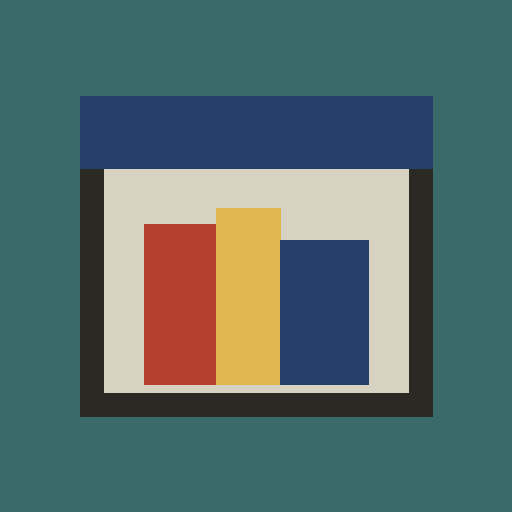
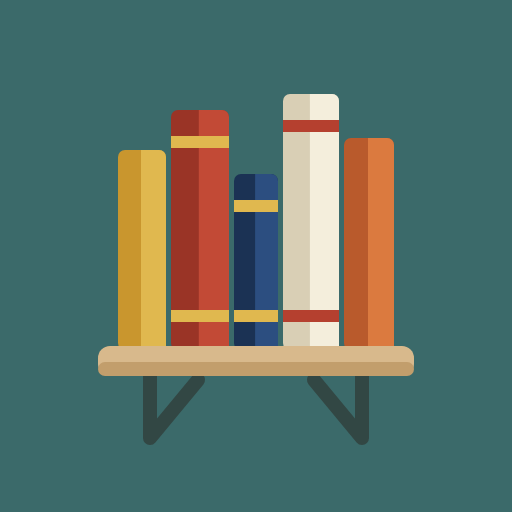
bkbk 새 아이콘, media v2, 같은 날 완독 순서, 시리즈·저자 검색 선택
Claude-Session: https://claude.ai/code/session_017xK88kUsRgSTMmdWXH6KVr

diff --git a/index.html b/index.html
@@ -117,6 +117,9 @@ h2{font:700 20px/1.3 var(--se);margin-top:10px}
 .stp{display:flex;gap:3px}.stp input{text-align:center;min-width:0;flex:1}
 .fl{margin-top:8px;font-size:12px;min-width:0;flex:1}.fl>span{display:block;color:var(--sh)}
 .r2{display:flex;gap:8px}.inl{display:flex;gap:4px}.inl select,.inl input{flex:1;min-width:0}
+.cb{position:relative;flex:1;min-width:0;display:flex}.cb .cbi{flex:1;min-width:0;width:100%}
+.cbl{position:absolute;left:0;right:0;top:100%;z-index:30;max-height:220px;overflow:auto;background:#fffef9;border:2px solid;border-color:var(--dk) #fff #fff var(--dk);box-shadow:3px 3px 0 #0003}
+.cbo{padding:4px 8px;cursor:pointer;white-space:nowrap;overflow:hidden;text-overflow:ellipsis}.cbo.a,.cbo[data-cv]:hover{background:var(--navy);color:#fff}.cbo.none{color:var(--sh);cursor:default}
 .cvup{width:110px;height:156px;margin:0 auto;border:2px dashed var(--sh);display:flex;align-items:center;justify-content:center;text-align:center;cursor:pointer;background:#fff center/cover;color:var(--sh);font-size:12px}
 
 .sr{width:18px;height:18px;vertical-align:middle}.sr .bg{fill:#fff;stroke:var(--dk);stroke-width:1.2}.sr .fg{fill:var(--red)}
@@ -139,7 +142,7 @@ h2{font:700 20px/1.3 var(--se);margin-top:10px}
  </div>
 </div>
 <script src="https://jjojjolonglong-sudo.github.io/mnmn/config.js"></script>
-<script src="https://jjojjolonglong-sudo.github.io/mnmn/media.v1.js"></script>
+<script src="https://jjojjolonglong-sudo.github.io/mnmn/media.v2.js"></script>
 <script>
 /* ---------- 연결 설정: 아래 값은 공개돼도 되는 값입니다 (비밀 키는 절대 넣지 마세요) ---------- */
 const CFG=window.APP_CONFIG||{};   // 공용 설정(config.js). 못 불러와도(오프라인 등) 아래 값으로 동작해요
@@ -153,7 +156,7 @@ const MEDIA=(LS('bkbk_media')||DEFAULT_MEDIA).replace(/\/$/,'');
 if(!window.todayKST)window.todayKST=()=>new Intl.DateTimeFormat('sv-SE',{timeZone:'Asia/Seoul'}).format(new Date());
 /* 공용 이미지 모듈(media.js). 못 불러와도 앱은 열리고, 업로드할 때만 안내가 떠요 */
 if(!window.Media)window.Media={init(){},process:async()=>{throw new Error('media.js could not be loaded')},upload:async()=>{throw new Error('media.js could not be loaded')}};
-Media.init({worker:MEDIA,getToken:()=>token()});
+Media.init({app:'bkbk',worker:MEDIA,getToken:()=>token()});
 
 /* ---------- Supabase 로그인 / 데이터 접근 (필요한 기능만 직접 구현) ---------- */
 const SES=()=>{try{return JSON.parse(localStorage.getItem('bkbk_sb')||'null')}catch(e){return null}};
@@ -223,10 +226,10 @@ let CS=new Map();
 const fresh=l=>has(l.onpct)?PC(l.onpct)<=0.5:has(l.onpage)?P(l.onpage)<=1:eOn(l)<=0.5;
 function sess(arr){
   const L=stab(arr,(a,b)=>cmp(dk(a.date),dk(b.date))||eOn(a)-eOn(b));
-  let start=0,done=false,cd='';const comps=[];
-  L.forEach((l,i)=>{if(done&&fresh(l)){start=i;done=false}if(!done&&eOff(l)>=100){done=true;cd=dk(l.date);comps.push(cd)}});
+  let start=0,done=false,cd='',ci=-1;const comps=[];
+  L.forEach((l,i)=>{if(done&&fresh(l)){start=i;done=false}if(!done&&eOff(l)>=100){done=true;cd=dk(l.date);ci=l._i;comps.push(cd)}});
   const S=L.slice(start);
-  return{p:Math.min(100,Math.max(0,...S.map(eOff))),fin:done,finD:done?cd:'',first:S.length?dk(S[0].date):'',last:S.length?dk(S[S.length-1].date):'',rr:start>0&&!done,comps,fi:S.length?S[0]._i:-1};
+  return{p:Math.min(100,Math.max(0,...S.map(eOff))),fin:done,finD:done?cd:'',first:S.length?dk(S[0].date):'',last:S.length?dk(S[S.length-1].date):'',rr:start>0&&!done,comps,fi:S.length?S[0]._i:-1,ci};   /* ci: 완독한 로그를 입력한 순번(같은 날 완독 순서 정렬용) */
 }
 const cs=id=>CS.get(String(id))||{p:0,fin:false,finD:'',first:'',last:'',rr:false,comps:[],fi:-1};
 const prog=id=>cs(id).p,fin=id=>cs(id).fin,finD=id=>cs(id).finD,lastD=id=>cs(id).last,firstD=id=>cs(id).first,rr=id=>cs(id).rr;
@@ -414,7 +417,7 @@ function Shelf(){
     const pl=`<span class="pl" style="background:${E(c2)};color:${lum(c2)}"><b>${E(t)}</b></span>`;
     if(!v){const d=Math.min(8,Math.max(5,w-12));return`<div ${a}><i class="dm" style="width:${d}px;height:${d}px;background:${E(c3)}"></i><div class="bd sg">${pl}</div></div>`}
     return`<div ${a}><div class="bd">${pl}<em class="vq" style="background:${E(c3)};color:${lum(c3)};font-size:${Math.min(9,Math.max(7,w-13))}px"><span>${E(v)}</span></em></div></div>`};
-  const done=D.Books.filter(b=>fin(b.id)).sort((a,b)=>cmp(finD(a.id),finD(b.id))),todo=D.Books.filter(b=>!fin(b.id)).sort(byD);
+  const done=D.Books.filter(b=>fin(b.id)).sort((a,b)=>cmp(finD(a.id),finD(b.id))||cs(a.id).ci-cs(b.id).ci)   /* 완독일 → 같은 날이면 입력한 순서 */,todo=D.Books.filter(b=>!fin(b.id)).sort(byD);
   const items=[...done.map(sp),...(todo.length?[`<div class="be" title="Unfinished books are on the right"><img src="bookend.png" alt="" height="100" onerror="this.style.visibility='hidden'"></div>`]:[]),...todo.map(sp)];
   return[`<div class="bar"><input id="sq" placeholder="Search title, author, genre…" value="${E(shq)}" style="flex:1" autocomplete="off"></div><div class="sc"><div class="shelf">${items.map(h=>`<div class="slot">${h}</div>`).join('')}</div></div>`,det(sel),'Shelf','Book'];
 }
@@ -430,7 +433,24 @@ const tagsOf=t=>D.Tags.filter(x=>String(x.type).toLowerCase()==t);
 let ed=null,fm=null,up=0;
 const opt=(a,v,f)=>a.map(x=>{const[i,n]=f(x);return`<option value="${E(i)}" ${i==v?'selected':''}>${E(n)}</option>`}).join('');
 const fl=(l,h)=>`<div class="fl"><span>${l}</span>${h}</div>`;
-const inl=(k,v)=>{const it=k=='series'?D.Series.map(s=>[s.id,s.name]):k=='platform'&&!tagsOf('platform').length?PLAT.map(x=>[x,x]):tagsOf(k).map(t=>[t.id,t.name]);return`<select name="${k}"><option value="">-</option>${opt(it,v,x=>x)}</select><button type="button" class="btn" data-ia="${k}">+</button>`};
+/* 시리즈·저자: 글자를 쳐서 목록을 좁힌 뒤 고르기. 목록은 최근에 만든 것부터 */
+const CBK=new Set(['series','author']);
+const cbItems=k=>(k=='series'?D.Series.map(x=>[String(x.id),x.name]):tagsOf(k).map(t=>[String(t.id),t.name])).reverse();
+const cbx=(k,v)=>{const cur=cbItems(k).find(x=>x[0]==String(v));return`<div class="cb" data-cb="${k}"><input class="cbi" value="${E(cur?cur[1]:'')}" placeholder="Type to search…" autocomplete="off"><input type="hidden" name="${k}" value="${E(cur?cur[0]:'')}"><div class="cbl" hidden></div></div><button type="button" class="btn" data-ia="${k}">+</button>`};
+function cbShow(w,all){const k=w.dataset.cb,q=all?'':w.querySelector('.cbi').value.trim().toLowerCase(),L=cbItems(k).filter(x=>!q||x[1].toLowerCase().includes(q)).slice(0,100),l=w.querySelector('.cbl');
+  l.innerHTML=L.map((x,i)=>`<div class="cbo${i==0?' a':''}" data-cv="${E(x[0])}">${E(x[1])}</div>`).join('')||'<div class="cbo none">No match</div>';l.hidden=false;l.scrollTop=0}
+function cbPick(w,id){const k=w.dataset.cb,it=cbItems(k).find(x=>x[0]==String(id));w.querySelector('input[type=hidden]').value=it?it[0]:'';w.querySelector('.cbi').value=it?it[1]:'';w.querySelector('.cbl').hidden=true;if(k=='series')onSeries()}
+function cbBlur(w){const t=w.querySelector('.cbi').value.trim(),h=w.querySelector('input[type=hidden]'),it=cbItems(w.dataset.cb),ex=it.find(x=>x[1]==t);
+  if(!t)cbPick(w,'');else if(ex)cbPick(w,ex[0]);else{const cur=it.find(x=>x[0]==h.value);w.querySelector('.cbi').value=cur?cur[1]:''}w.querySelector('.cbl').hidden=true}
+document.addEventListener('focusin',e=>{const w=e.target.closest&&e.target.closest('.cb');if(w&&e.target.classList.contains('cbi')){e.target.select();cbShow(w,true)}});
+document.addEventListener('focusout',e=>{const w=e.target.closest&&e.target.closest('.cb');if(w&&e.target.classList.contains('cbi'))cbBlur(w)});
+document.addEventListener('input',e=>{if(e.target.classList&&e.target.classList.contains('cbi'))cbShow(e.target.closest('.cb'))});
+document.addEventListener('mousedown',e=>{const o=e.target.closest&&e.target.closest('.cbo[data-cv]');if(o){e.preventDefault();cbPick(o.closest('.cb'),o.dataset.cv)}});
+document.addEventListener('keydown',e=>{if(!e.target.classList||!e.target.classList.contains('cbi'))return;const w=e.target.closest('.cb'),l=w.querySelector('.cbl'),O=[...l.querySelectorAll('.cbo[data-cv]')];let i=O.findIndex(o=>o.classList.contains('a'));
+  if(e.key=='ArrowDown'||e.key=='ArrowUp'){e.preventDefault();if(l.hidden)cbShow(w);i=Math.max(0,Math.min(O.length-1,i+(e.key=='ArrowDown'?1:-1)));O.forEach((o,j)=>o.classList.toggle('a',j==i));O[i]&&O[i].scrollIntoView({block:'nearest'})}
+  else if(e.key=='Enter'){e.preventDefault();if(!l.hidden&&O[i<0?0:i])cbPick(w,O[i<0?0:i].dataset.cv)}
+  else if(e.key=='Escape'){l.hidden=true}});
+const inl=(k,v)=>{if(CBK.has(k))return cbx(k,v);const it=k=='series'?D.Series.map(s=>[s.id,s.name]):k=='platform'&&!tagsOf('platform').length?PLAT.map(x=>[x,x]):tagsOf(k).map(t=>[t.id,t.name]);return`<select name="${k}"><option value="">-</option>${opt(it,v,x=>x)}</select><button type="button" class="btn" data-ia="${k}">+</button>`};
 const inp=(k,v,x='')=>`<input name="${k}" value="${E(v)}" ${x}>`;
 /* Theme: 버튼식 다중 선택 */
 const chipBox=(k,sel)=>{const S=new Set(sel.map(String));return`<div class="chipwrap" id="cw-${k}"><div class="chips">${tagsOf(k).map(t=>`<button type="button" class="chip ${S.has(String(t.id))?'on':''}" data-tt="${E(t.id)}">${E(t.name)}</button>`).join('')}<span id="in-${k}"><button type="button" class="btn" data-ia="${k}">+</button></span></div><input type="hidden" name="tags" value="${E([...S].join(','))}"></div>`};

diff --git a/sw.js b/sw.js
@@ -1,4 +1,4 @@
-const V='bkbk-v2',A=['./','index.html','manifest.webmanifest','icon-192.png','icon-512.png','icon-maskable-512.png','apple-touch-icon.png'];
+const V='bkbk-v3',A=['./','index.html','manifest.webmanifest','icon-192.png','icon-512.png','icon-maskable-512.png','apple-touch-icon.png'];
 self.addEventListener('install',e=>e.waitUntil(caches.open(V).then(c=>Promise.allSettled(A.map(u=>c.add(u)))).then(()=>self.skipWaiting())));
 self.addEventListener('activate',e=>e.waitUntil(caches.keys().then(k=>Promise.all(k.filter(x=>x!=V).map(x=>caches.delete(x)))).then(()=>clients.claim())));
 // 네트워크 우선, 오프라인일 때만 저장본. 외부(Supabase/Worker) 요청은 건드리지 않음
